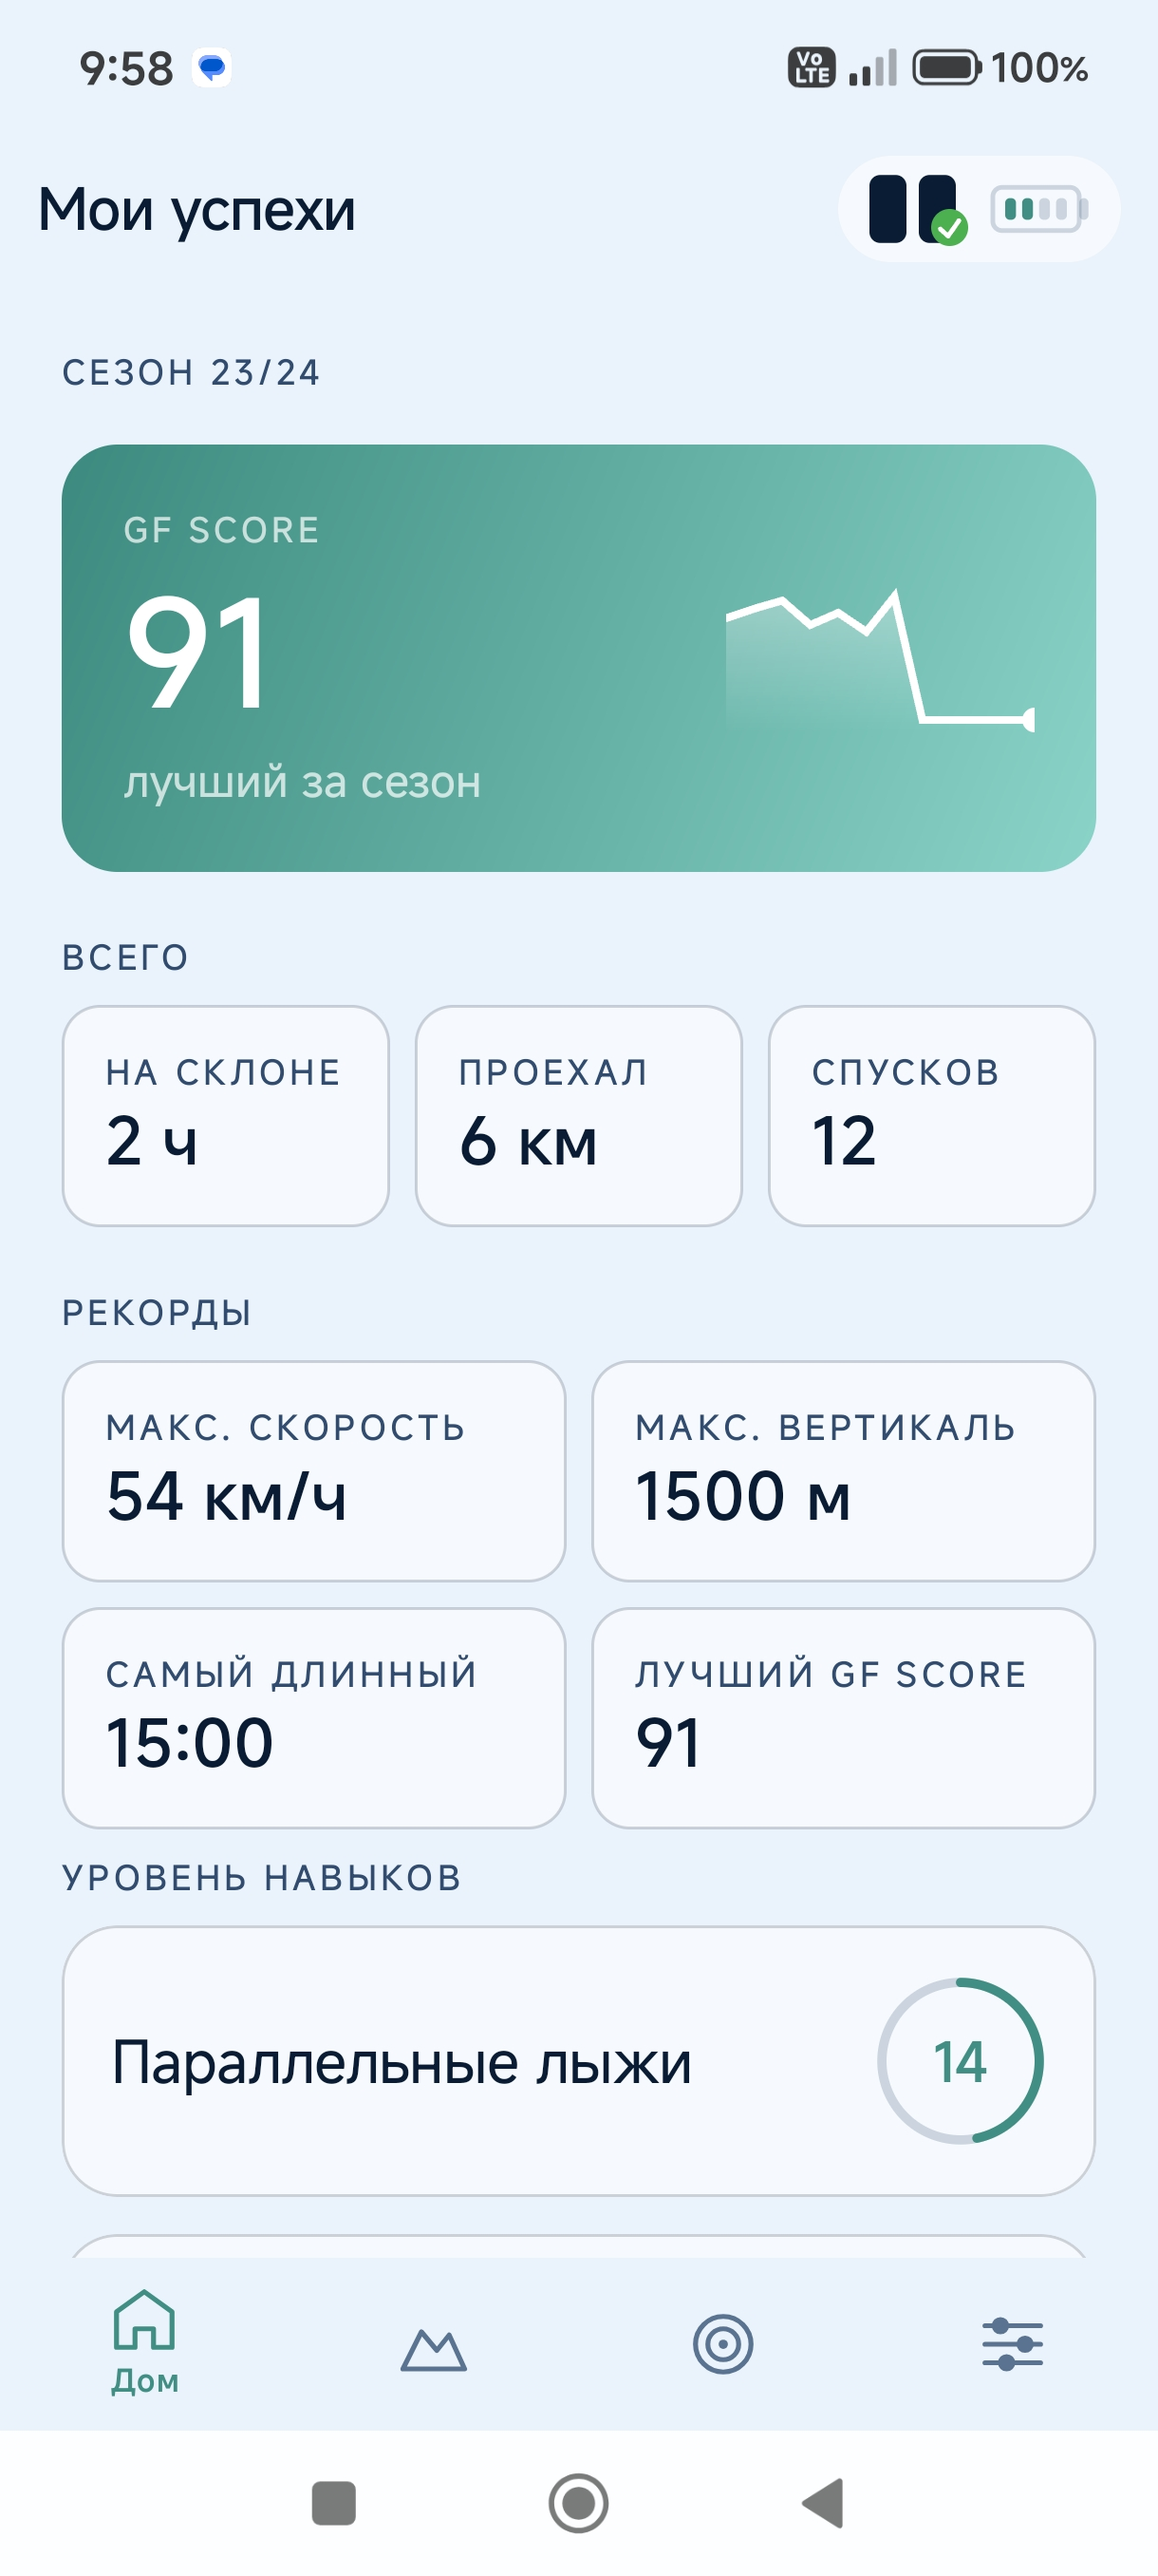
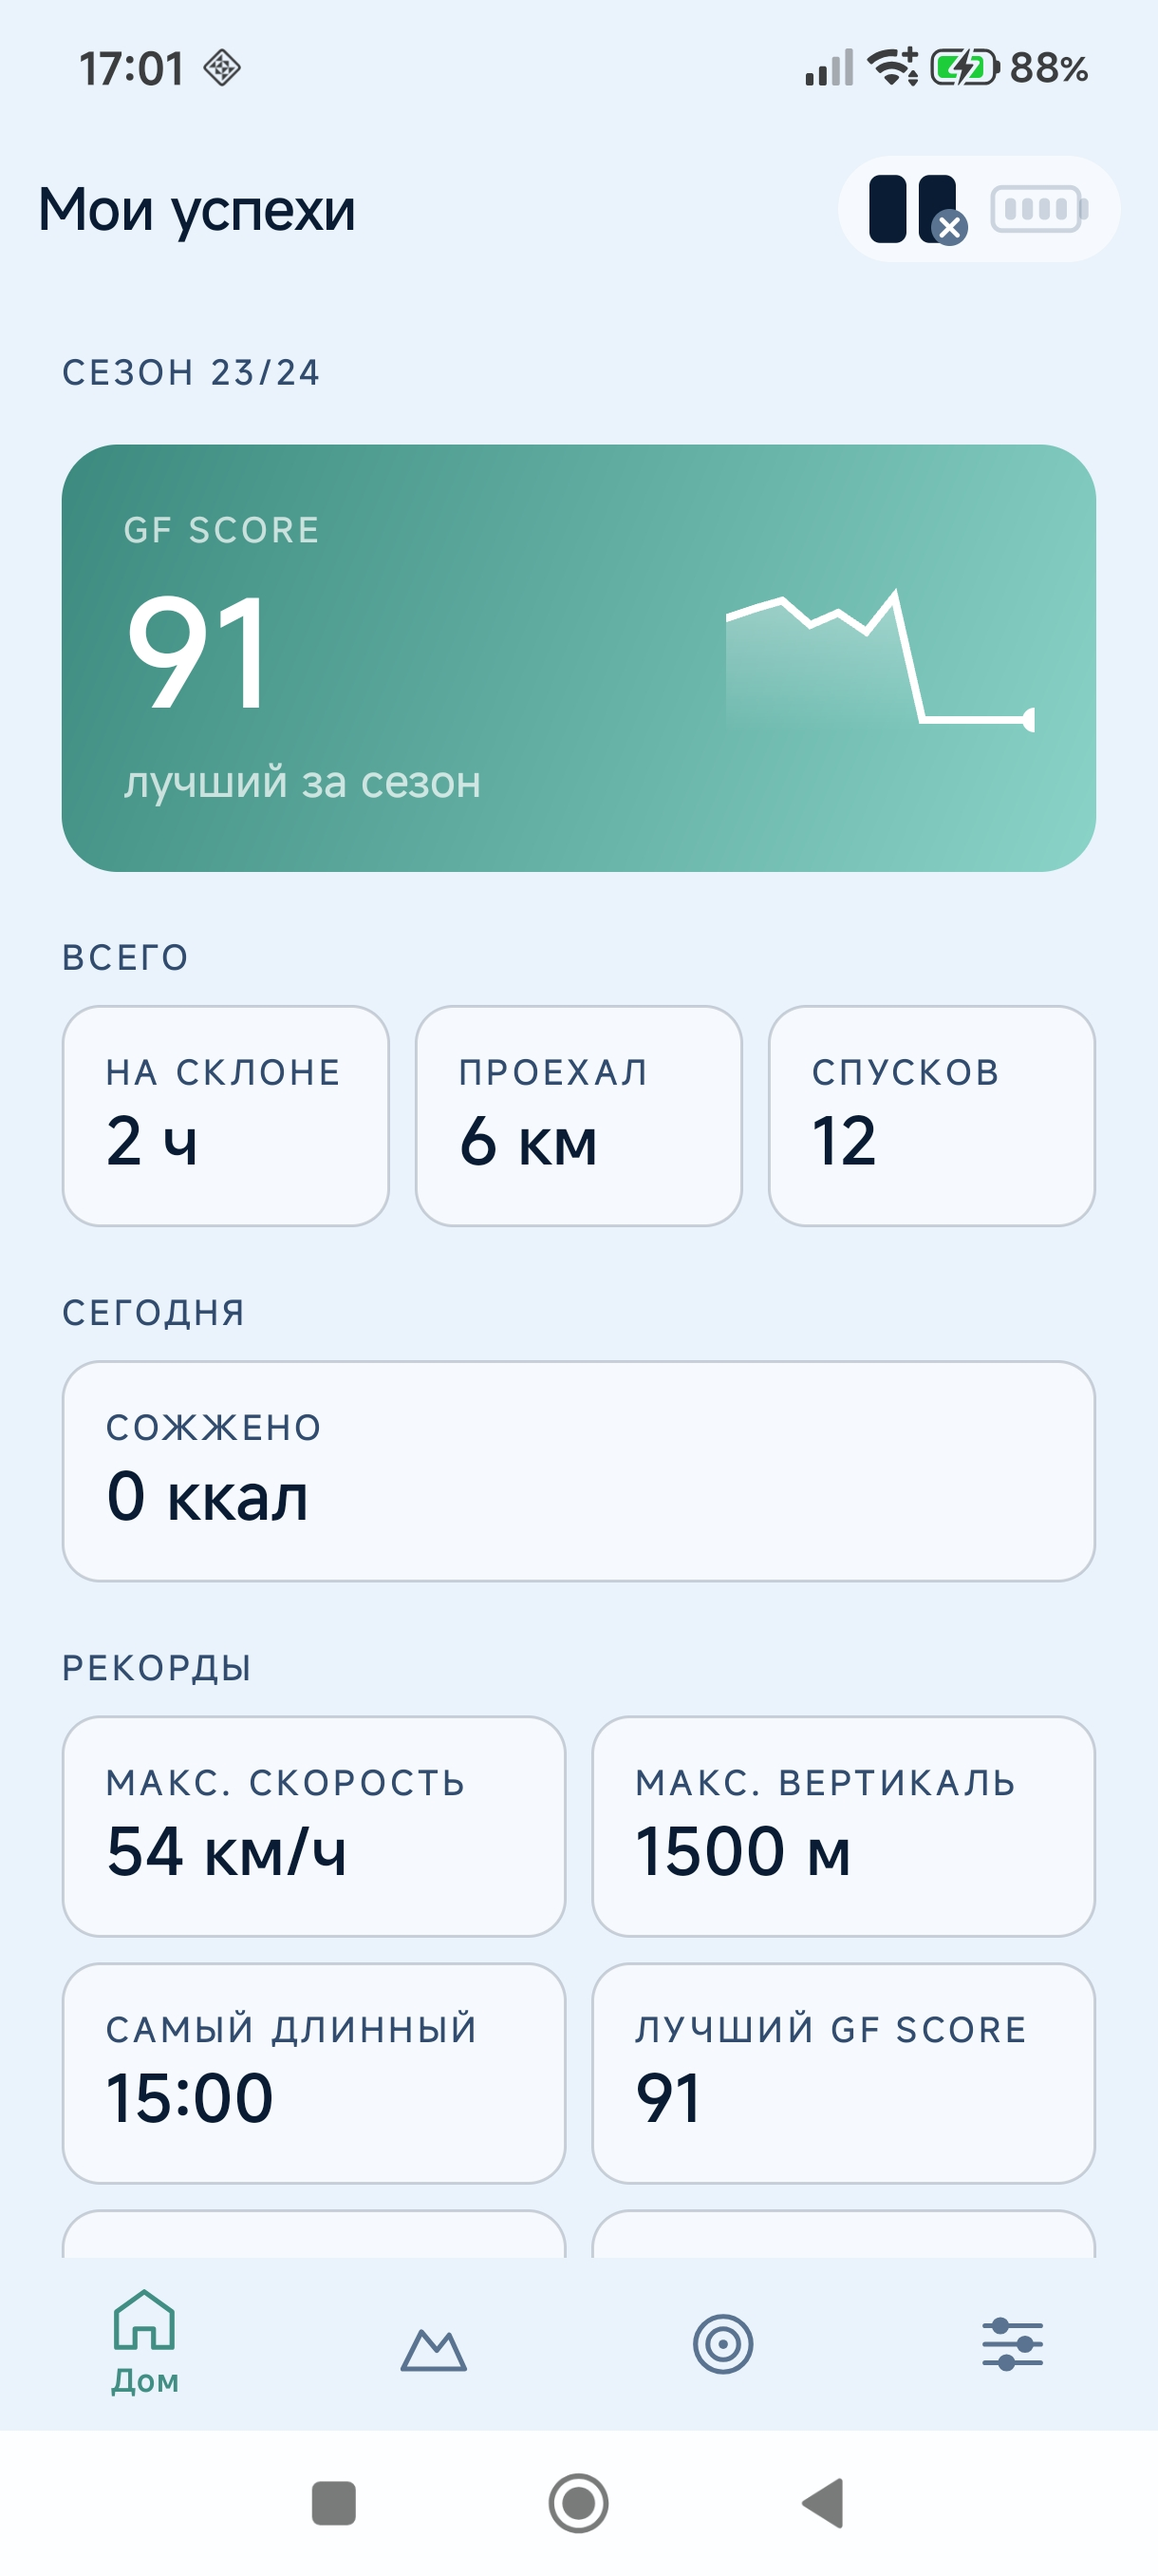
docs

diff --git a/docs/user-guide.md b/docs/user-guide.md
@@ -286,7 +286,10 @@ Score**, разбирает технику по метрикам и подска
 
 - **GF SCORE** - лучший результат за сезон, с графиком последних сессий.
 - **Всего** - время на склоне, расстояние, число спусков.
-- **Рекорды** - макс. скорость, макс. вертикаль, самый длинный спуск, лучший GF Score.
+- **Рекорды** - макс. скорость, макс. вертикаль, самый длинный спуск (по времени), лучший GF
+  Score, макс. крутизна (лучшая крутизна спуска по датчикам - см. раздел
+  [6](#6-gf-score-и-разбор-метрик); «—», пока нет спусков с датчиками) и макс. дистанция одного
+  спуска.
 
 Ниже - уровень по каждой дисциплине (**Параллельные лыжи**, **Карвинг**, **Короткий радиус**);
 кольцо показывает уровень по шкале 0–30.
@@ -375,7 +378,9 @@ Score**, разбирает технику по метрикам и подска
 
 ![Детали спуска](assets/user-guide/16-session-detail.jpg)
 
-Зелёная карточка - итоговый **GF Score**, время / повороты / перепад / калории и макс. скорость.
+Зелёная карточка - итоговый **GF Score**, время / повороты / перепад / калории, макс. скорость и
+крутизна склона (по датчикам: медиана 8 самых крутых поворотов, поэтому отдельные бугры её не
+завышают; без датчиков не показывается).
 Кнопка **«Расчёт»** открывает разбивку:
 
 ![Разбор GF Score - метрики](assets/user-guide/17-score-breakdown-top.jpg)
